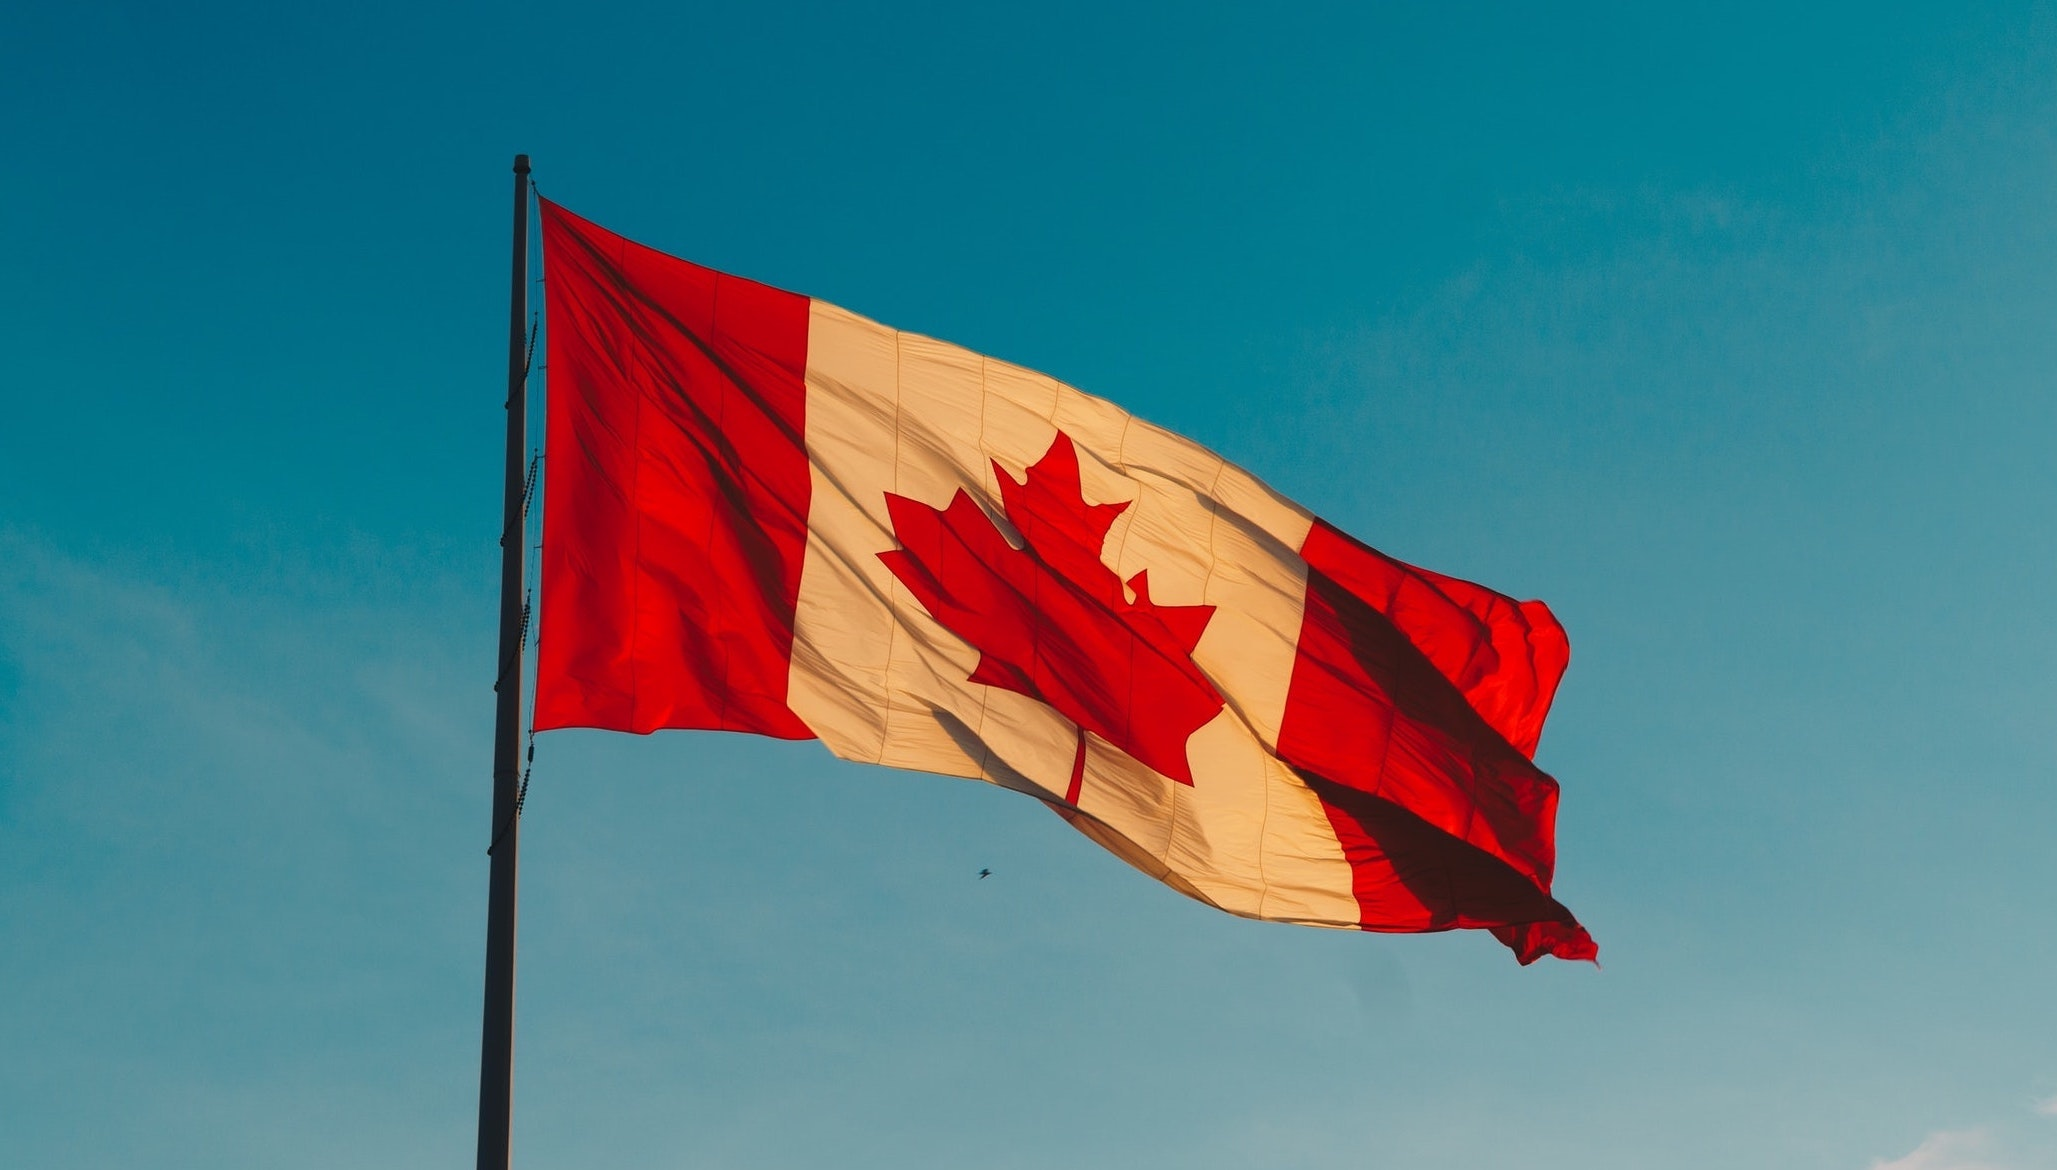
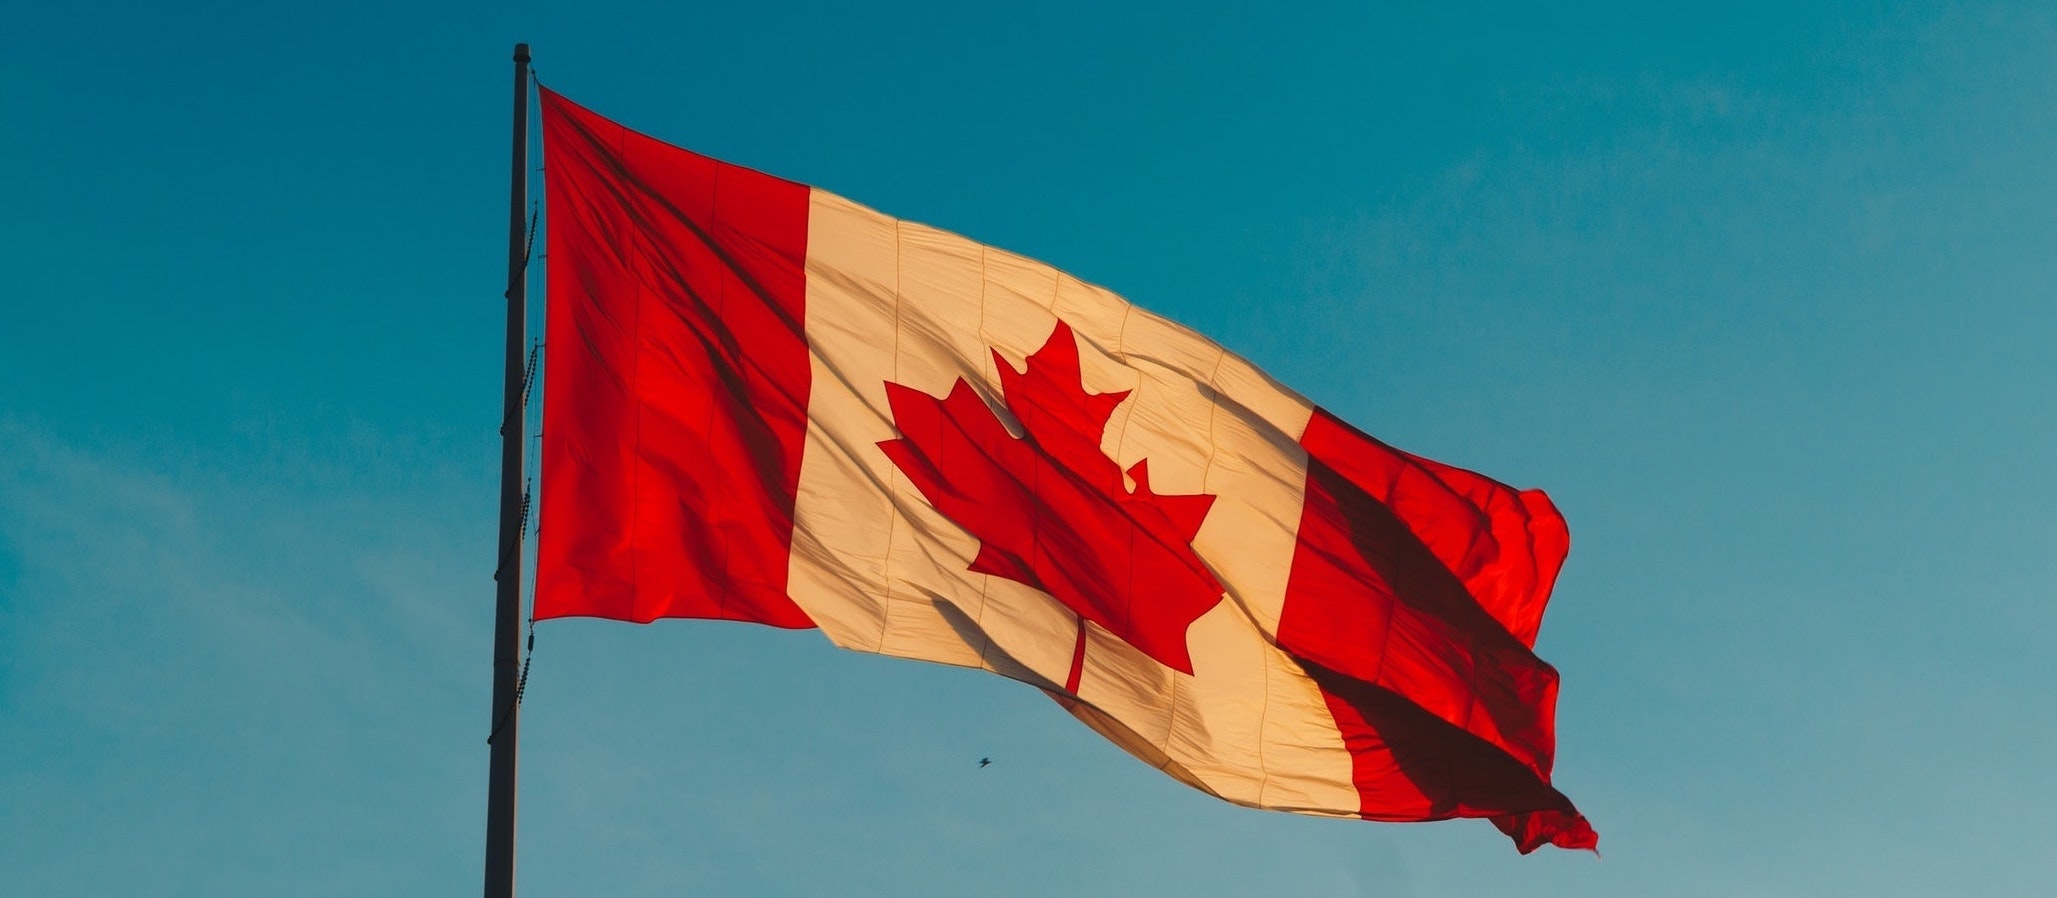
Add about page and footer with social media

diff --git a/app/assets/stylesheets/home.scss b/app/assets/stylesheets/home.scss
@@ -3,20 +3,38 @@
 // You can use Sass (SCSS) here: http://sass-lang.com/
 
 $main-font: 'Francois One', sans-serif;
+$body-font: "Akagi Pro", sans-serif;
 $dark-grey: rgba(0, 0, 0, 0.4);
+$light-grey: rgba(48,48,48,.1);
 
 body, html {
   height: 100%; 
   margin: 0;
+  padding: 0;
 }
 
-// .bg {
-//   background-position: center;
-//   background-repeat: no-repeat;
-//   background-size: cover;
-//   background-image: url(canadian-flag.jpg);
-//   height: 100%;
-// }
+a {
+  color: #252627;
+  text-decoration: none;
+  &:hover {
+    color: #252627;
+    text-decoration: none;
+  }
+}
+
+.imgbox {
+  display: grid;
+  height: 100%;
+}
+.bg {
+  max-width: 100%;
+  margin: auto;
+}
+
+img {
+  width: 100%;
+}
+
 .section {
   clear: both;
   padding: 0px;
@@ -24,11 +42,44 @@ body, html {
 }
 
 .current-topics {
-  border-top: 2px solid $dark-grey;
-  margin: 1em;
+  border-top: 1px $light-grey;
+  margin: 0 2em;
+  border-bottom: 1px solid $light-grey;
   .all-topics {
     text-align: center;
     font-size: 1.8em;
+  }
+}
+
+
+#container {
+  min-height: 100%;
+  position: relative;
+  height: 100%;
+}
+
+#body {
+  padding-bottom: 50px;
+}
+
+/*  ================ ABOUT PAGE ================ */
+
+.about {
+  margin: 2em;
+  border-bottom: 1px solid $light-grey;
+  margin-bottom: 0;
+  padding-bottom: 1em;
+  font-family: $body-font;
+  letter-spacing: .02em;
+}
+
+.social-media {
+  justify-content: flex-start;
+  margin-left: auto;
+  .fa-facebook-f, .fa-github, .fa-linkedin-in, .fa-twitter {
+    padding: 0 15px;
+    align-items: center;
+    color: #9ea0a6;
   }
 }
 
@@ -40,6 +91,10 @@ body, html {
   padding-left: 0;
   margin-right: auto;
   margin-left: auto;
+  padding-bottom: 1em;
+  border-bottom: 1px solid $light-grey;
+  letter-spacing: .02em;
+  font-family: $body-font;
 }
 
 P {
@@ -49,8 +104,8 @@ P {
 .heading {
   text-align: center;
   padding: 0.5em 0em;
-  border-top: 1px solid;
-  border-bottom: 1px solid;
+  border-top: 1px solid $light-grey;
+  border-bottom: 1px solid $light-grey;
 }
 
 /*  ================ COLUMN SETUP ================ */
@@ -299,8 +354,7 @@ button.btn.btn-primary {
 /*  ================ MOBILE PAGE ================ */
 
 .admin-link {
-  color: black;
-  border-top: 1px solid black;
+  color: #9ea0a6;
   padding: 0.5em;
   bottom: 0;
   &:hover {
@@ -309,8 +363,11 @@ button.btn.btn-primary {
 }
 
 .admin-div {
-  text-align: center;
-  margin-top: 1em;
+  display: flex;
+  justify-content: center;
+  width: 100%;
+  position: absolute;
+  padding: 2em;
 }
 
 iframe#twitter-widget-1 {

diff --git a/app/javascript/components/_app.js.jsx b/app/javascript/components/_app.js.jsx
@@ -40,22 +40,27 @@ class App extends React.Component {
     const { open } = this.state;
     return(
       <div className="App">
-        <div>
-          <button type="button" onClick={this.onOpenModal}>Find my Poli-match</button>
-        </div>
         <Route exact={true} path="/" render={() => (
           <div>
-            <h2>Current Topics</h2>
-            { this.state.topics.map((topic, index) => {
-                return(
-                  <div className="col span_1_of_3 hometopics" key={topic.id}>
-                    <Link to={`/topics/${topic.name}`} className="title">
-                      <span className="topic">{topic.name}</span>
-                    </Link>
-                  </div>
-                )
-              })
-            }
+            <div className="imgbox">
+              <div className="bg"><img src="https://i.ibb.co/LkqbLJR/canadian-flag.jpg"/></div>
+            </div>
+            <div className="about">
+              <h3>About</h3>
+              <p>
+                We help educate voters on the key topics in the upcoming election. A better informed voter means better informed voting and decision making, with the ambitious aim to improve our nation.
+                <br/>
+                <h5>THE ‘WHAT’</h5>
+                <b/>
+                Bacon ipsum dolor amet brisket cupim picanha shank andouille pork loin. Picanha ham chicken, landjaeger kielbasa drumstick pig chuck rump prosciutto meatloaf beef ribs pork loin venison. Pork brisket short loin strip steak, swine pork chop spare ribs bresaola pancetta filet mignon andouille ground round kielbasa hamburger picanha. Beef ribs tenderloin bresaola, sausage buffalo pig cupim biltong meatloaf fatback turkey cow turducken swine.
+                <br/>
+                THE ‘GOOD’
+                People don't expect government to solve all their problems. They stood on the Edmund Pettus Bridge, as the blows of billy clubs rained down. There was even a time when the Christian Coalition determined that its number one legislative priority was tax cuts for the rich. But we can only achieve it together.
+                <br/>
+                THE ‘BAD’
+                Louis, and thousands more like her, who has the grades, has the drive, has the will, but doesn't have the money to go to college. But we cannot walk away this time. These challenges are not all of government's making.
+              </p>
+            </div>
           </div>
         )}/>
        <Route path="/topics" component={(Topic) => (this.props.match)}/>

diff --git a/app/javascript/components/_currentTopics.js.jsx b/app/javascript/components/_currentTopics.js.jsx
@@ -1,0 +1,70 @@
+import React, { Component } from 'react';
+import { Link, Route } from 'react-router-dom';
+import axios from 'axios';
+
+class currentTopic extends Component {
+  state = {
+    open: false,
+    topics: [],
+    currentTopic: null
+  };
+
+  onOpenModal = () => {
+    this.setState({ open: true });
+  };
+
+  onCloseModal = () => {
+    this.setState({ open: false });
+  };
+
+  componentDidMount() {
+    axios.get('/topics')
+      .then((response) => {
+        console.log("data:", response.data);
+        this.setState({
+          topics: response.data
+        }, () => {
+          console.log(this.state)
+        })
+      })
+      .catch(function (error) {
+        return error;
+      });
+  }
+
+  topicSet = () => {
+    this.setState({ currentTopic: topic.id})
+  }
+
+  render() {
+    const { open } = this.state;
+    return(
+      <div className="App">
+        <div>
+          <button type="button" onClick={this.onOpenModal}>Find my Poli-match</button>
+        </div>
+        <Route exact={true} path="/" render={() => (
+          <div>
+            <h2>Current Topics</h2>
+            <div>
+              Choose a topic from the below
+            </div>
+            { this.state.topics.map((topic, index) => {
+                return(
+                  <div className="col span_1_of_3 hometopics" key={topic.id}>
+                    <Link to={`/topics/${topic.name}`} className="title">
+                      <span className="topic">{topic.name}</span>
+                    </Link>
+                  </div>
+                )
+              })
+            }
+          </div>
+        )}/>
+       <Route path="/topics" component={(Topic) => (this.props.match)}/>
+      </div>
+    )
+  };
+}
+
+export default currentTopic;

diff --git a/app/javascript/components/Main.js b/app/javascript/components/Main.js
@@ -7,6 +7,7 @@ import Game from './_Game.js.jsx';
 import axios from 'axios';
 import MediaQuery from 'react-responsive';
 import Admin from './Admin.js';
+import App from './_app.js';
 
 
 class Main extends Component {
@@ -34,21 +35,29 @@ class Main extends Component {
 
   render() {
     return(
-      <div className="bg">
+      <div id="container">
         <Router>
-          <div>
+          <div id="body">
             <NavBar />
             <Switch>
               <Route path="/admin" component={Admin}/>
               <Route path="/game" component={Game}/>
               <Route path='/topics/:topic/:id' render={(routerProps) =>
                 <TopicPage {...routerProps} topics={this.state.topics}/> }/>
-              <Route path='/' exact render={(routerProps) =>
+              <Route path='/currentTopics' exact render={(routerProps) =>
                 <TopicsPage {...routerProps} topics={this.state.topics}/> } />
-              <Route path='/' render={() => <Redirect to='/'/>}/>
+              <Route path='/' component={App}/>
             </Switch>
             <div className="admin-div">
-              <a href="/admin" className="admin-link">Admin</a>
+              <div>
+                <a href="/admin" className="admin-link">Admin</a>
+              </div>
+              <div className="social-media">
+                <i className="fab fa-facebook-f"></i>
+                <i className="fab fa-linkedin-in"></i>
+                <i className="fab fa-twitter"></i>
+                <i className="fab fa-github"></i>
+              </div>
             </div>
             <MediaQuery maxWidth={575}>
               <footer className="mobile-footer">

diff --git a/app/javascript/components/_navbar.js.jsx b/app/javascript/components/_navbar.js.jsx
@@ -28,6 +28,7 @@ class NavBar extends React.Component {
           <a href="/" className="name">KNOW YOUR VOTE</a>
           <MediaQuery minWidth={576}>
             <button type="button" className="button" onClick={this.onOpenModal}>Find my Poli-match</button>
+            <button type="button" className="button"><Link to="/currentTopics">Current Topics</Link></button>
           </MediaQuery>
         </div>
         <div>
